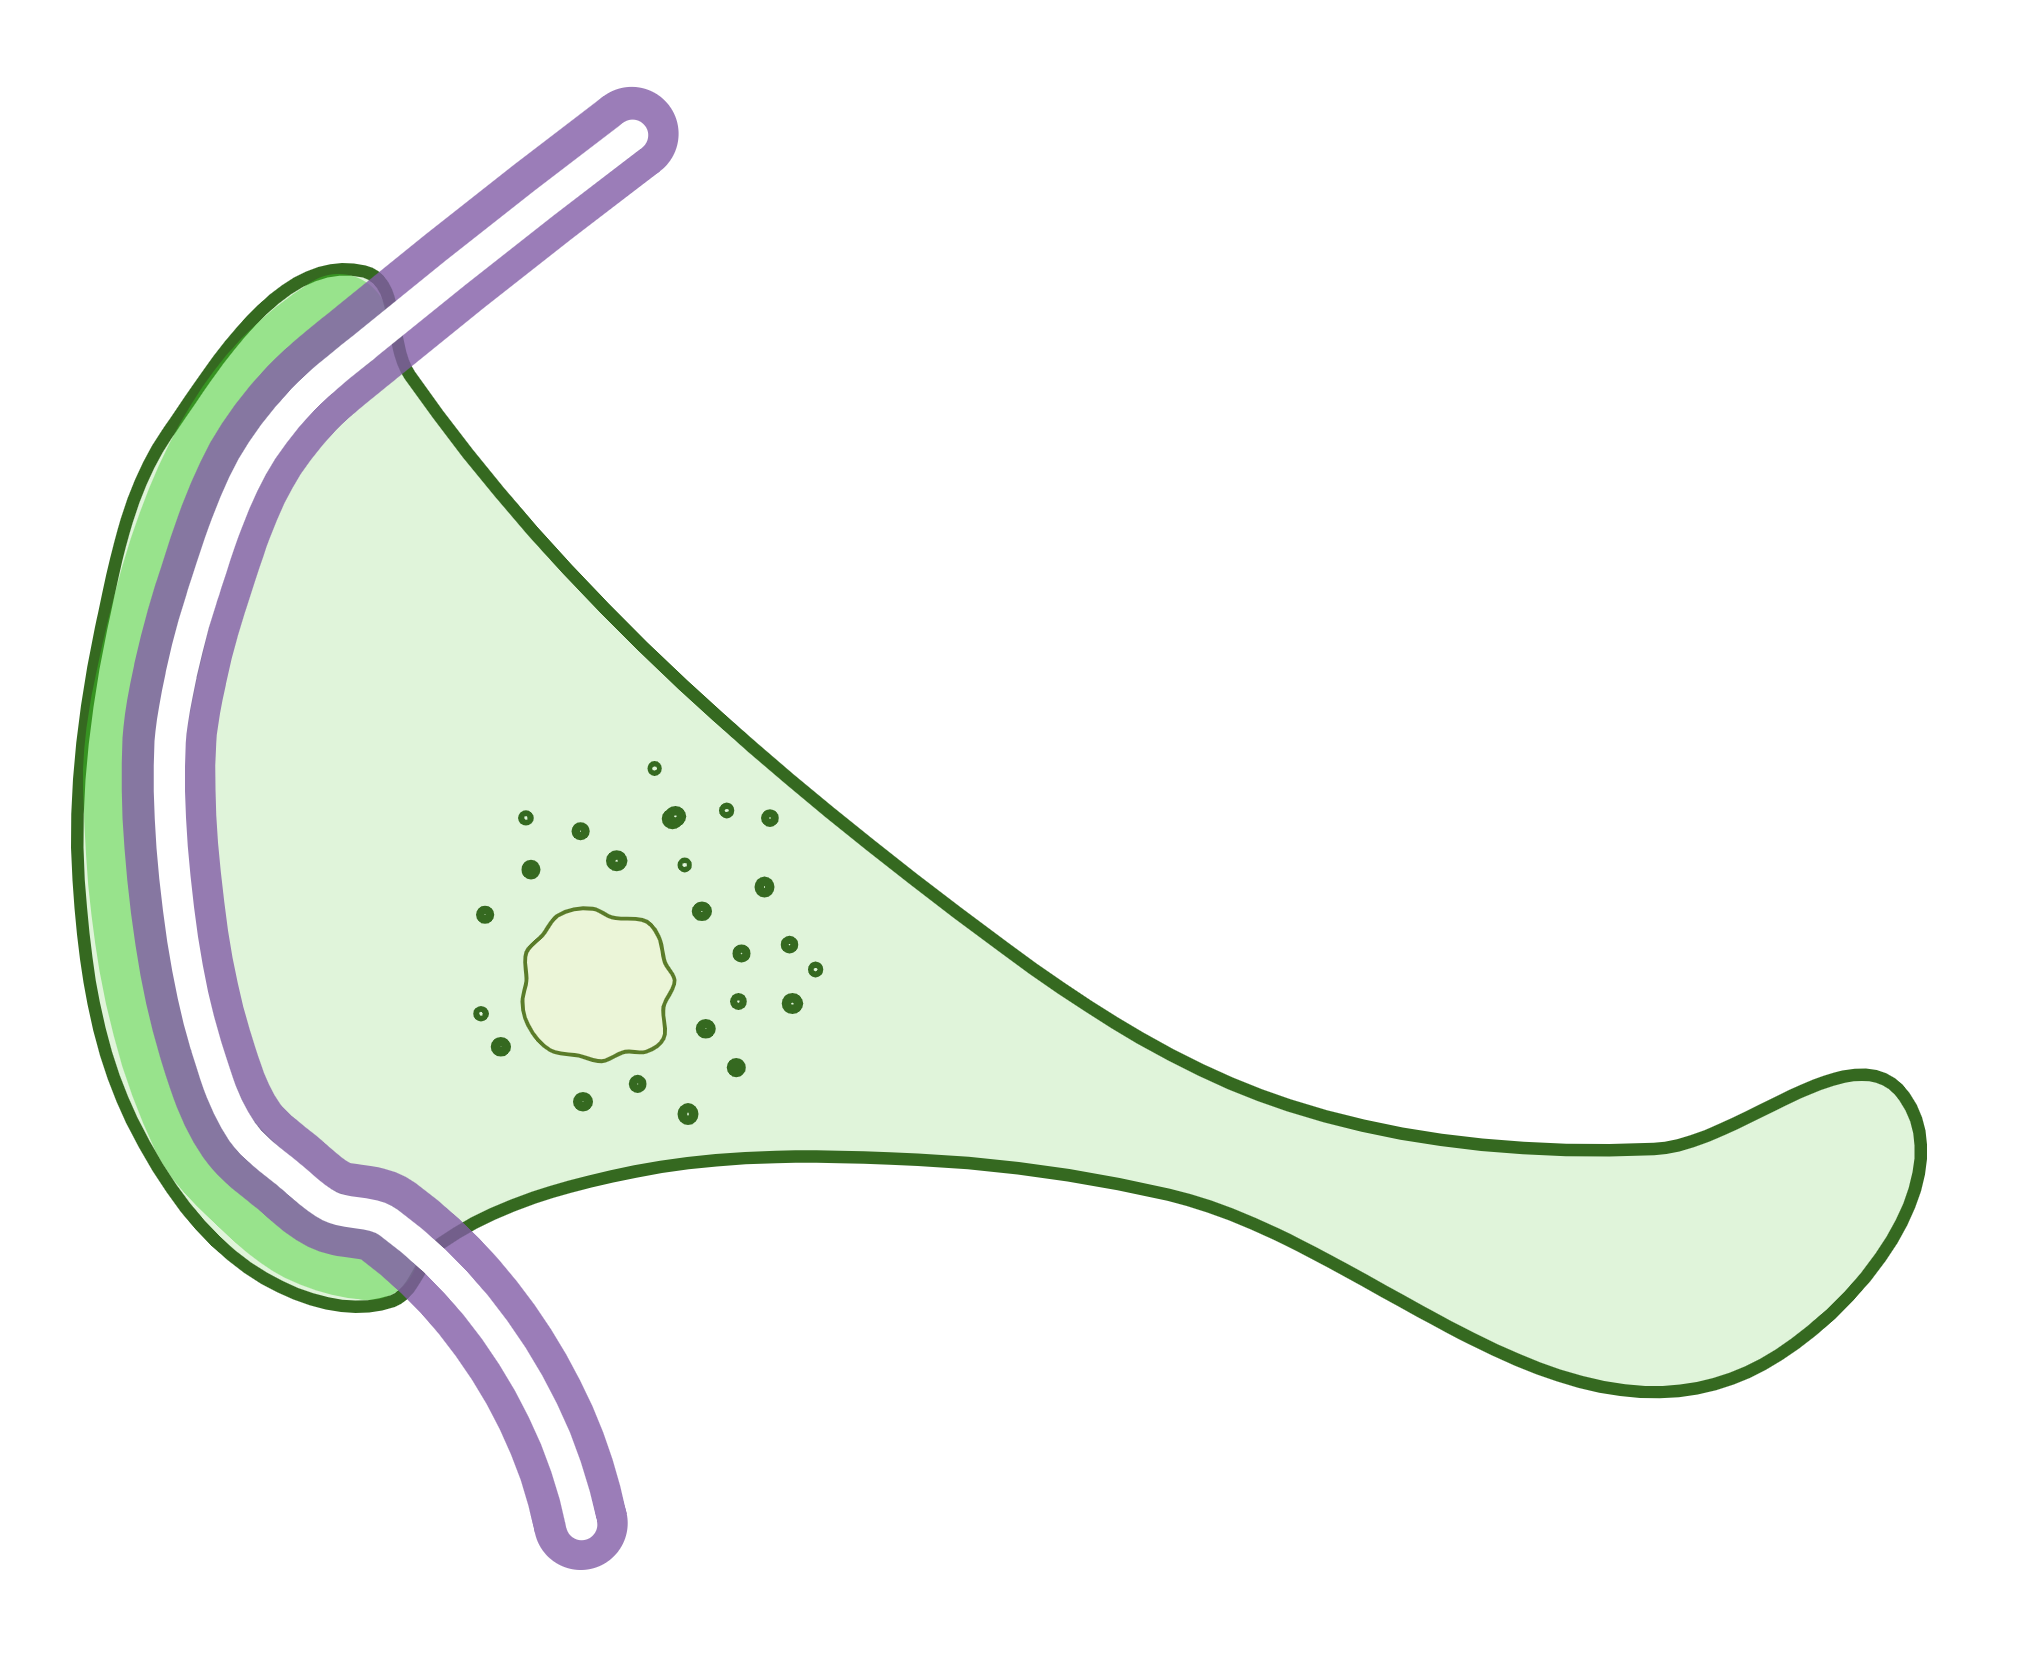
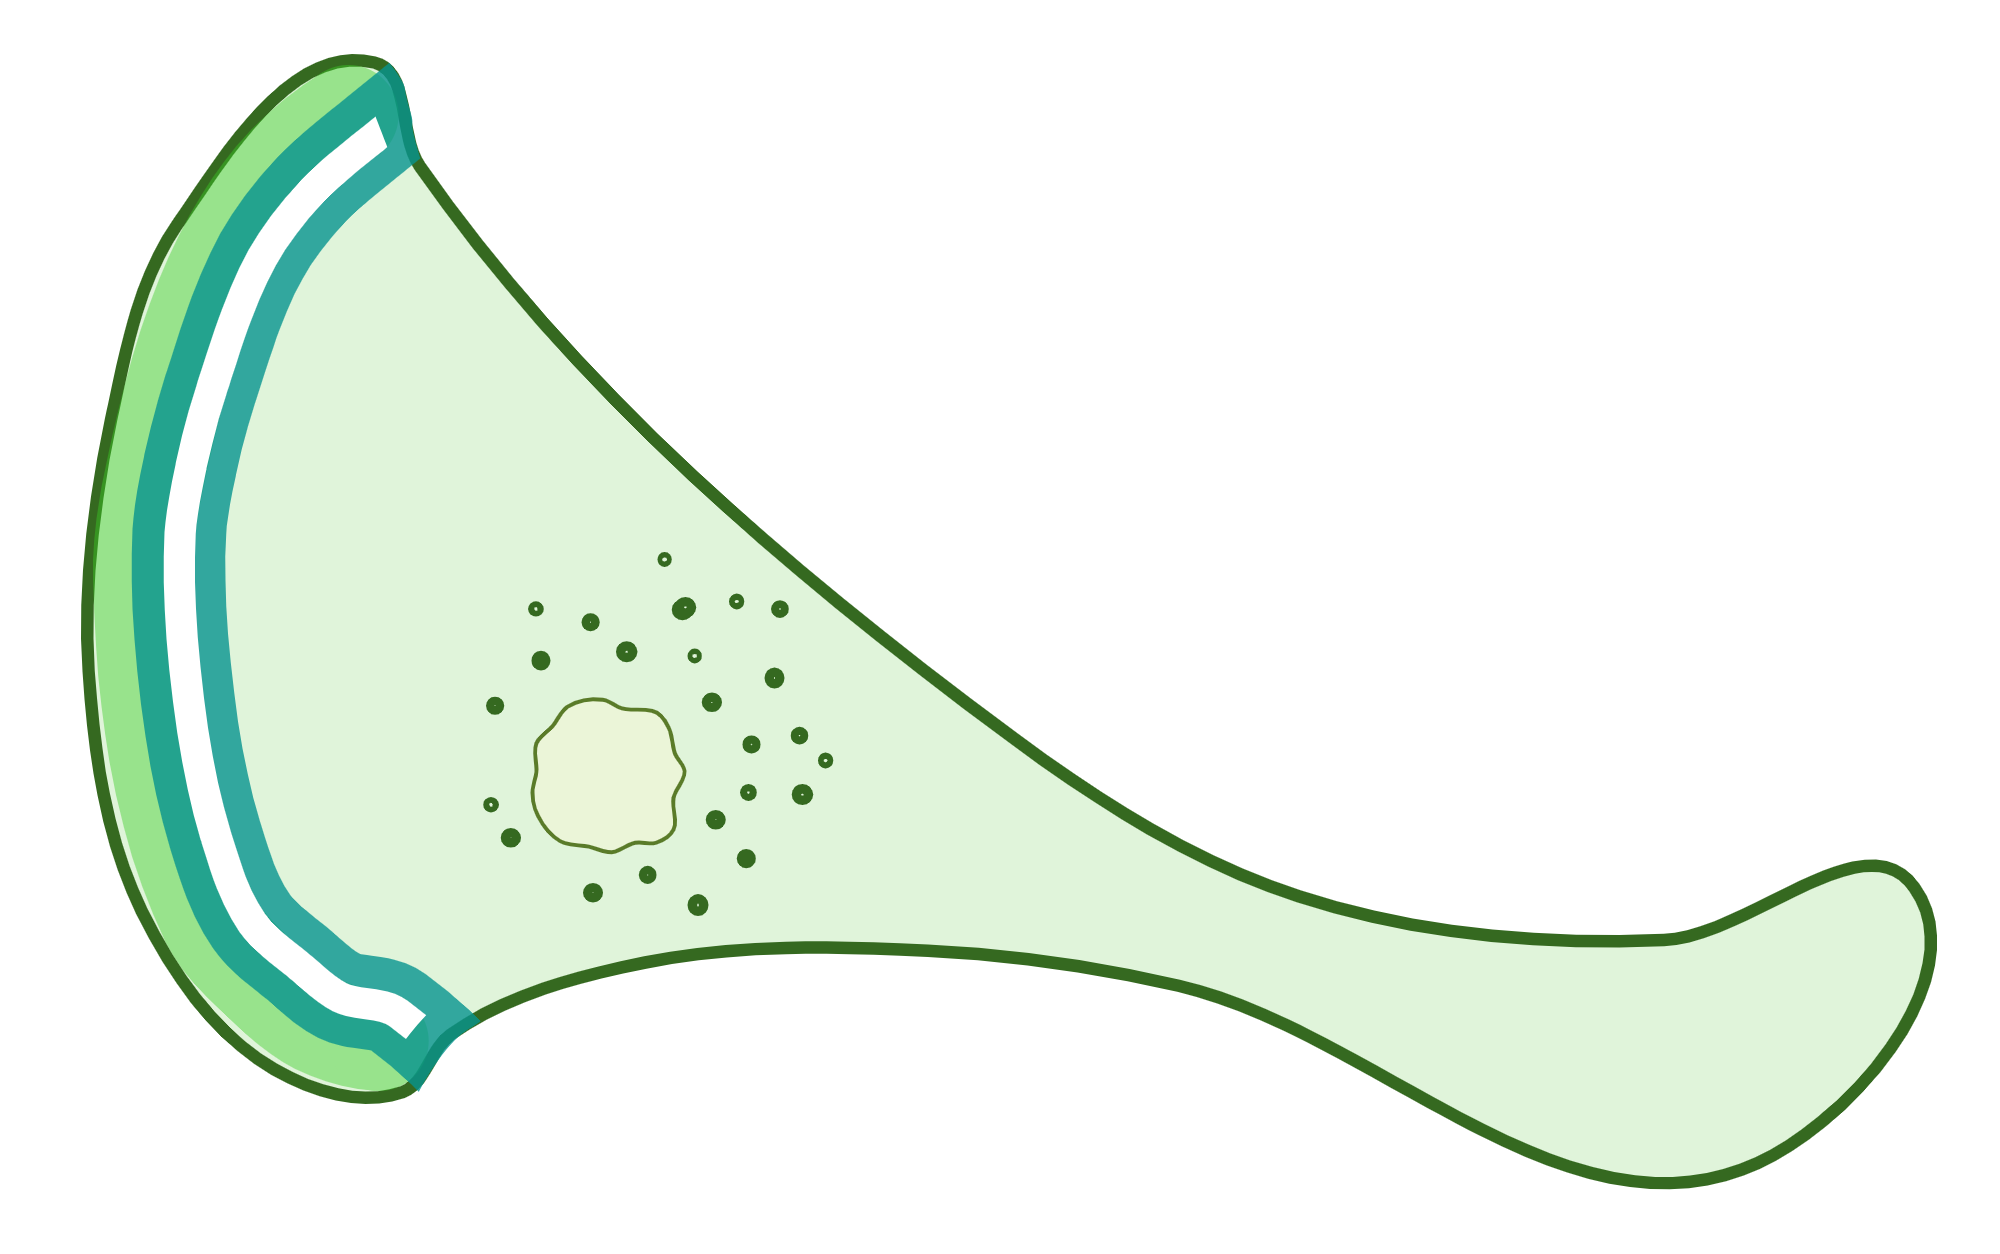
updated readme about bridge_diagonal_only_contacts()

Changed region(s): [[0.031, 0.0311, 0.992, 0.9641]]

diff --git a/README.md b/README.md
@@ -1,6 +1,6 @@
 # CellSplitterForRuffles
 
-This directory stores the code for cell_splitter plugin for ImageJ.
+Cell margins are closely associated with cell migration and morphological changes. In cancer biology, they represent regions where cellular protrusions occur and are strongly linked to malignancy and invasiveness. This makes them a critical focus for investigations. However, the most commonly used software for image analysis in cancer biology, ImageJ, lacks a dedicated tool to separate cell margins of interest from the rest of the cell. To address this need, I developed this plugin that enables users to accurately isolate and analyze multiple cell margin regions from the rest of the cell body.
 
 ## Input image requirements
 
@@ -27,9 +27,21 @@ This directory stores the code for cell_splitter plugin for ImageJ.
 1. Enjoy your high-speed analysis!
 
 ## Code behaviour explanation
+### ROI generated and saved
+
+ROI below whose names contain __NUMBER__ means there can be multiple of them 
+* <code style="color : red">whole_cell</code> (${\textsf{\color{red}red}}$): the whole cell area
+* <code style="color : orange">line_ruffles_raw_NUMBER</code> (${\textsf{\color{orange}orange}}$): the raw lines drawn by user to split and their  2 ends are outside the whole_cell
+* <code style="color : purple">line_ruffles_raw_area_NUMBER</code> (${\textsf{\color{purple}purple}}$): area converted from line_ruffles_raw_NUMBER by `Edit → Selection → Line to Area` operation 
+* <code style="color : green">line_ruffles_area_NUMBER</code> (${\textsf{\color{green}green}}$): line_ruffles_raw_area_NUMBER truncated by whole_cell
+* <code style="color : blue">non_ruffles</code> (${\textsf{\color{blue}blue}}$): determined area for non-ruffles
+* <code style="color : blue">ruffles_NUMBER</code> (${\textsf{\color{blue}blue}}$): determined areas for ruffles
+  
+
+### Process 
 
 1. After pressing `Z`, the code automatically set up the output folder directory, rename slices, adjust the images for
-   contrast, and move to the actin channel
+   contrast, and move to the actin channel, ready for the next step 
 1. Code asks users to select out multiple areas as background using the rectangle tool.
     * Once a background area is
       selected, press `A` to add it onto the image
@@ -39,75 +51,101 @@ This directory stores the code for cell_splitter plugin for ImageJ.
       background reduction purposes
     * Background areas' measurements are saved locally
 
-<div align="center">
-<img src="readme_imgs/cell.png" width="300">
-</div>
+   <div align="center">
+   <img src="readme_imgs/cell.png" width="300">
+   </div>
 
-3. Code asks the user to use the freehand shape tool to trace out the whole cell area and this
+1. Code asks the user to use the freehand shape tool to trace out the whole cell area and this
    gives <code style="color : red">whole_cell</code> (${\textsf{\color{red}red}}$)
 
-<div align="center">
-<img src="readme_imgs/whole_cell.png" width="300">
-</div>
+   <div align="center">
+   <img src="readme_imgs/whole_cell.png" width="300">
+   </div>
 
-4. Code asks the user to use the freehand line tool to trace the boarders between the ruffles areas and other part of the cell.
-   That boarder line is <code style="color : orange">line_ruffles</code> (${\textsf{\color{orange}orange}}$). For simplicity, the diagram only shows 1 <code style="color : orange">line_ruffles</code> (${\textsf{\color{orange}orange}}$), but the latest version allow user to trace multiples ones with `A` pressed to add
-    * Ensure that the terminus of the line go outside the closed shape for cell
-    * For the best performance, on the point when the <code style="color : orange">line_ruffles</code> (${\textsf{\color{orange}orange}}$) intersect with the outline of <code style="color : red">whole_cell</code> (${\textsf{\color{red}red}}$), the <code style="color : orange">line_ruffles</code> (${\textsf{\color{orange}orange}}$) should be drawn at __90°__. If this angle has a very small degree, you'll have the risk of having part of the <code style="color : orange">line_ruffles</code> (${\textsf{\color{orange}orange}}$) sticks to the children ROI generated from the split in the later step
+1. Code asks the user to use the freehand line tool to trace the boarders between the ruffles areas and other part of the cell.
+   That boarder line is <code style="color : orange">line_ruffles_raw</code> (${\textsf{\color{orange}orange}}$). For simplicity, the diagram only shows 1 <code style="color : orange">line_ruffles_raw</code> (${\textsf{\color{orange}orange}}$), but the latest version allow user to trace multiples ones with `A` pressed to add
+    * Ensure that the 2 ends of the line go outside the closed shape for cell
+    * For the best performance, the <code style="color : orange">line_ruffles_raw</code> (${\textsf{\color{orange}orange}}$) should intersect with the outline of <code style="color : red">whole_cell</code> (${\textsf{\color{red}red}}$) at __90°__. If this angle is very acute, you'll have the risk of having very small part of the <code style="color : orange">line_ruffles_raw</code> (${\textsf{\color{orange}orange}}$) sticks to the children ROI generated from the split like a tail in the later step
       * Larger images tend to have lower risk of this issue since they are less granular
+      * More discussed below for the function `bridge_diagonal_only_contacts()`
 
-<div align="center">
-<img src="readme_imgs/line_ruffles.png" width="300">
-</div>
+   <div align="center">
+   <img src="readme_imgs/line_ruffles_raw.png" width="300">
+   </div>
 
-5. With <code style="color : orange">line_ruffles</code> (${\textsf{\color{orange}orange}}$) selected, Edit →
-   Selection → Properties and set the width as 1 px
+1. With <code style="color : orange">line_ruffles_raw</code> (${\textsf{\color{orange}orange}}$) selected, `Edit →
+   Selection → Properties` and set the width as 1 px
    * The width shouldn't matter here but 1 px tends to give the best result 
-1. Edit → Selection → Line to area and this gives <code style="color : purple">
-   line_ruffles_area</code> (${\textsf{\color{purple}purple}}$)
+1. `Edit → Selection → Line to Area` and this gives <code style="color : purple">
+   line_ruffles_raw_area</code> (${\textsf{\color{purple}purple}}$)
 
-<div align="center">
-<img src="readme_imgs/line_ruffles_area_generate.png" width="300">
-<img src="readme_imgs/line_ruffles_area.png" width="300">
-</div>
+   <div align="center">
+   <img src="readme_imgs/line_ruffles_raw_area_generate.png" width="300">
+   <img src="readme_imgs/line_ruffles_raw_area.png" width="300">
+   </div>
 
-7. With <code style="color : red">whole_cell</code> (${\textsf{\color{red}red}}$) and <code style="color : purple">
-   line_ruffles_area</code> (${\textsf{\color{purple}purple}}$) selected, apply XOR and split the resulting ROI. In the
+1. With <code style="color : red">whole_cell</code> (${\textsf{\color{red}red}}$) and <code style="color : purple">
+   line_ruffles_raw_area</code> (${\textsf{\color{purple}purple}}$) selected, apply AND to truncate <code style="color : purple">
+   line_ruffles_raw_area</code> (${\textsf{\color{purple}purple}}$) to only keep the parts that are inside the cell and fill in the bridging pixels (see notes below). This gives <code style="color : green">
+   line_ruffles_area</code> (${\textsf{\color{green}green}}$)
+
+   <div align="center">
+   <img src="readme_imgs/line_ruffles_area.png" width="300">
+   </div>
+
+   * During this process, filling in the bridge pixels is necessary because <code style="color : purple">
+     line_ruffles_raw_area</code> (${\textsf{\color{purple}purple}}$) are defined with __8-connectivity__ (2 pixels can be connected by any 4 sides or 4 points). 
+     * This can be an issue for the later logic operations and can lead to parts with small tails (see the yellow tails sticking out below). Tails are very narrow small areas. 
+
+      <div align="center">
+      <img src="readme_imgs/tail_issue.png" width="300">
+      </div>
+
+      * To solve this, I developed `bridge_diagonal_only_contacts()` to fill in 1 pixel to force all pixels to be __4-connectivity__ (any 2 pixels must be connected by at least 1 side and cannot be connected by just a corner). Test cases are shown below for diagonal lines as masks, with red outlining the original pixels and blue outlining the filled in ones.
+        * Technically, you can also use a 2 × 2 matrix to recognize the diagonal features, but ImageJ requires an odd number matrix, which means 3 × 3 matrix at minimum for calculation. To not overcomplicate the problem, `bridge_diagonal_only_contacts()` was written using relative coordinates with pixel color judgements.  
+
+      <div align="center">
+      <img src="readme_imgs/right_down_px_add.png" width="300">
+      <img src="readme_imgs/right_up_px_add.png" width="300">
+      </div>
+
+1. With <code style="color : red">whole_cell</code> (${\textsf{\color{red}red}}$) and <code style="color : green">
+   line_ruffles_area</code> (${\textsf{\color{green}green}}$) selected, Apply XOR and split the resulting ROI. In the
    multiple resulting
    ROI from the split, the one with the largest area is <code style="color : blue">
    non_ruffles</code> (${\textsf{\color{blue}blue}}$)
     * XOR works by removing the area that 2 sets are overlapping and keep the ones that aren't overlapped
-    * Due to how this process works, if the original <code style="color : orange">line_ruffles</code> (${\textsf{\color{orange}orange}}$) intersects with the <code style="color : red">whole_cell</code> (${\textsf{\color{red}red}}$) at a very sharp angle, the risk of having part of the line attached to the children ROI from the operation is higher  
+    * Due to how this process works, if the original <code style="color : orange">line_ruffles_raw</code> (${\textsf{\color{orange}orange}}$) intersects with the <code style="color : red">whole_cell</code> (${\textsf{\color{red}red}}$) at a very sharp angle, the risk of having part of the line attached to the children ROI from the operation is higher  
 
-<div align="center">
-<img src="readme_imgs/whole_cell_line_ruffles_area_XOR.png" width="300">
-<img src="readme_imgs/whole_cell_line_ruffles_area_XOR_results.png" width="300">
-<img src="readme_imgs/non_ruffles.png" width="300">
-</div>
+   <div align="center">
+   <img src="readme_imgs/whole_cell_line_ruffles_area_XOR.png" width="300">
+   <img src="readme_imgs/whole_cell_line_ruffles_area_XOR_results.png" width="300">
+   <img src="readme_imgs/non_ruffles.png" width="300">
+   </div>
 
-8. With <code style="color : red">whole_cell</code> (${\textsf{\color{red}red}}$) and <code style="color : blue">
+1. With <code style="color : red">whole_cell</code> (${\textsf{\color{red}red}}$) and <code style="color : blue">
    non_ruffles</code> (${\textsf{\color{blue}blue}}$) selected, apply XOR and this gives <code style="color : blue">
    ruffles</code> (${\textsf{\color{blue}blue}}$)
-    * I did this because the previous step will make <code style="color : orange">
-      line_ruffles</code> (${\textsf{\color{orange}orange}}$) a gap so you will lose some pixels covered
-      by <code style="color : orange">line_ruffles</code> (${\textsf{\color{orange}orange}}$). In this
+    * I do this because the previous step will make <code style="color : green">
+      line_ruffles_area</code> (${\textsf{\color{green}green}}$) a gap so you will lose some pixels covered
+      by it. In this
       way, there’s no pixels lost
-    * This also means that pixels from <code style="color : orange">
-      line_ruffles</code> (${\textsf{\color{orange}orange}}$) will be included in <code style="color : blue">
+    * This also means that pixels from <code style="color : green">
+      line_ruffles_area</code> (${\textsf{\color{green}green}}$) will be included in <code style="color : blue">
       ruffles</code> (${\textsf{\color{blue}blue}}$). Consequently, user should draw the
-      <code style="color : orange">line_ruffles</code> (${\textsf{\color{orange}orange}}$) adjacent to but also inside
+      <code style="color : orange">line_ruffles_raw</code> (${\textsf{\color{orange}orange}}$) adjacent to but also inside
       the edge of <code style="color : blue">ruffles</code> (${\textsf{\color{blue}blue}}$) that's facing
       the <code style="color : blue">non_ruffles</code> (${\textsf{\color{blue}blue}}$)
         * This is usually not an issue since the code set the width of <code style="color : orange">
-          line_ruffles</code> (${\textsf{\color{orange}orange}}$) to 1 px. If you're using a way bigger px as the width,
+          line_ruffles_raw</code> (${\textsf{\color{orange}orange}}$) to 1 px. If you're using a way bigger px as the width,
           this should be taken care of by suggestions above
 
-<div align="center">
-<img src="readme_imgs/whole_cell_non_ruffles_XOR.png" width="300">
-<img src="readme_imgs/whole_cell_non_ruffles_XOR_result_ruffles.png" width="300">
-</div>
+   <div align="center">
+   <img src="readme_imgs/whole_cell_non_ruffles_XOR.png" width="300">
+   <img src="readme_imgs/whole_cell_non_ruffles_XOR_result_ruffles.png" width="300">
+   </div>
 
-9. All ROI are saved locally
+1. All ROI are saved locally
 1. The intensities within <code style="color : red">
    whole_cell</code> (${\textsf{\color{red}red}}$), <code style="color : blue">
    non_ruffles</code> (${\textsf{\color{blue}blue}}$), and <code style="color : blue">
@@ -126,14 +164,18 @@ This directory stores the code for cell_splitter plugin for ImageJ.
       was the edge of <code style="color : blue">non_ruffles</code> (${\textsf{\color{blue}blue}}$) that faces the
       ruffles area
     * You can also see that the pixels covered by the original <code style="color : orange">
-      line_ruffles</code> (${\textsf{\color{orange}orange}}$) now becomes part of the <code style="color : blue">
+      line_ruffles_raw</code> (${\textsf{\color{orange}orange}}$) now becomes part of the <code style="color : blue">
       ruffles</code> (${\textsf{\color{blue}blue}}$). This is the reason why user should draw
-      the <code style="color : orange">line_ruffles</code> (${\textsf{\color{orange}orange}}$) on the edge of but still
+      the <code style="color : orange">line_ruffles_raw</code> (${\textsf{\color{orange}orange}}$) on the edge of but still
       within the area of <code style="color : blue">ruffles</code> (${\textsf{\color{blue}blue}}$)
 
-<div align="center">
-<img src="readme_imgs/ruffles_non_ruffles_overlay.png" width="300">
-<img src="readme_imgs/ruffles_non_ruffles_overlay_line_ruffles.png" width="300">
-</div>
+   <div align="center">
+   <img src="readme_imgs/ruffles_non_ruffles_overlay.png" width="300">
+   <img src="readme_imgs/ruffles_non_ruffles_overlay_line_ruffles.png" width="300">
+   </div>
 
-12. Processed stack is saved locally in case of quality check
+1. Processed stack is saved locally for quality check later if needed 
+
+## Troubleshooting
+When the `whole_cell` area is drawn in a way that the user lifts the pen before it reaches to the end, a straight line will automatically form. This is totally fine for defining the whole cell area, but if a `line_ruffles_raw` is drawn across that straight line, it leads to unseparate shapes sometimes (not always happens but does increase the risk).  
+   * Solution: draw the `whole_cell` area as much as possible and only draw `line_ruffles_raw` across the `whole_cell` on the lines that were manually drawn
